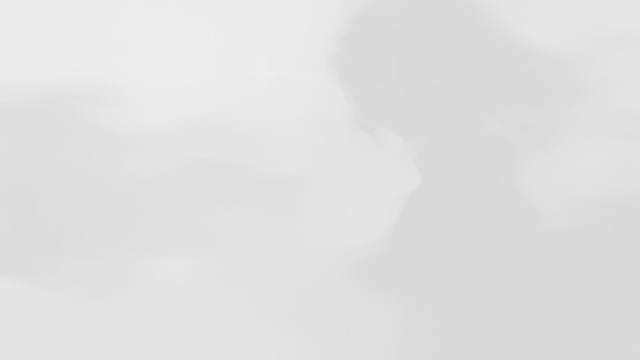
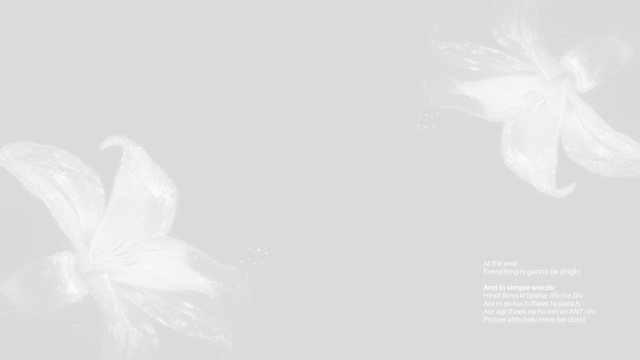
feat(nvim): try the next background image
Replace the backdrop with the requested Pinterest image while preserving
grayscale, 15% image opacity, and the existing 16:9 geometry without blur.
Update the source link and leave text and terminal styling unchanged.

diff --git a/README.md b/README.md
@@ -73,7 +73,7 @@ plugin itself is not installed.
 
 ### Neovim background
 
-The [user-provided image](https://d2h7xmz5gqybh9.cloudfront.net/predictions/627218de6cfd4f4abf360dc756f5a066/1.png)
+The [user-provided image](https://i.pinimg.com/1200x/c6/06/15/c60615d2ab50b61c99dc73867b149486.jpg)
 is one continuous backdrop across Neovim: homepage, editing, splits, menus,
 and footer. `nvim/assets/background.png` is prepared at 640×360 (16:9),
 in grayscale at 15% opacity, with no added blur. Text stays
